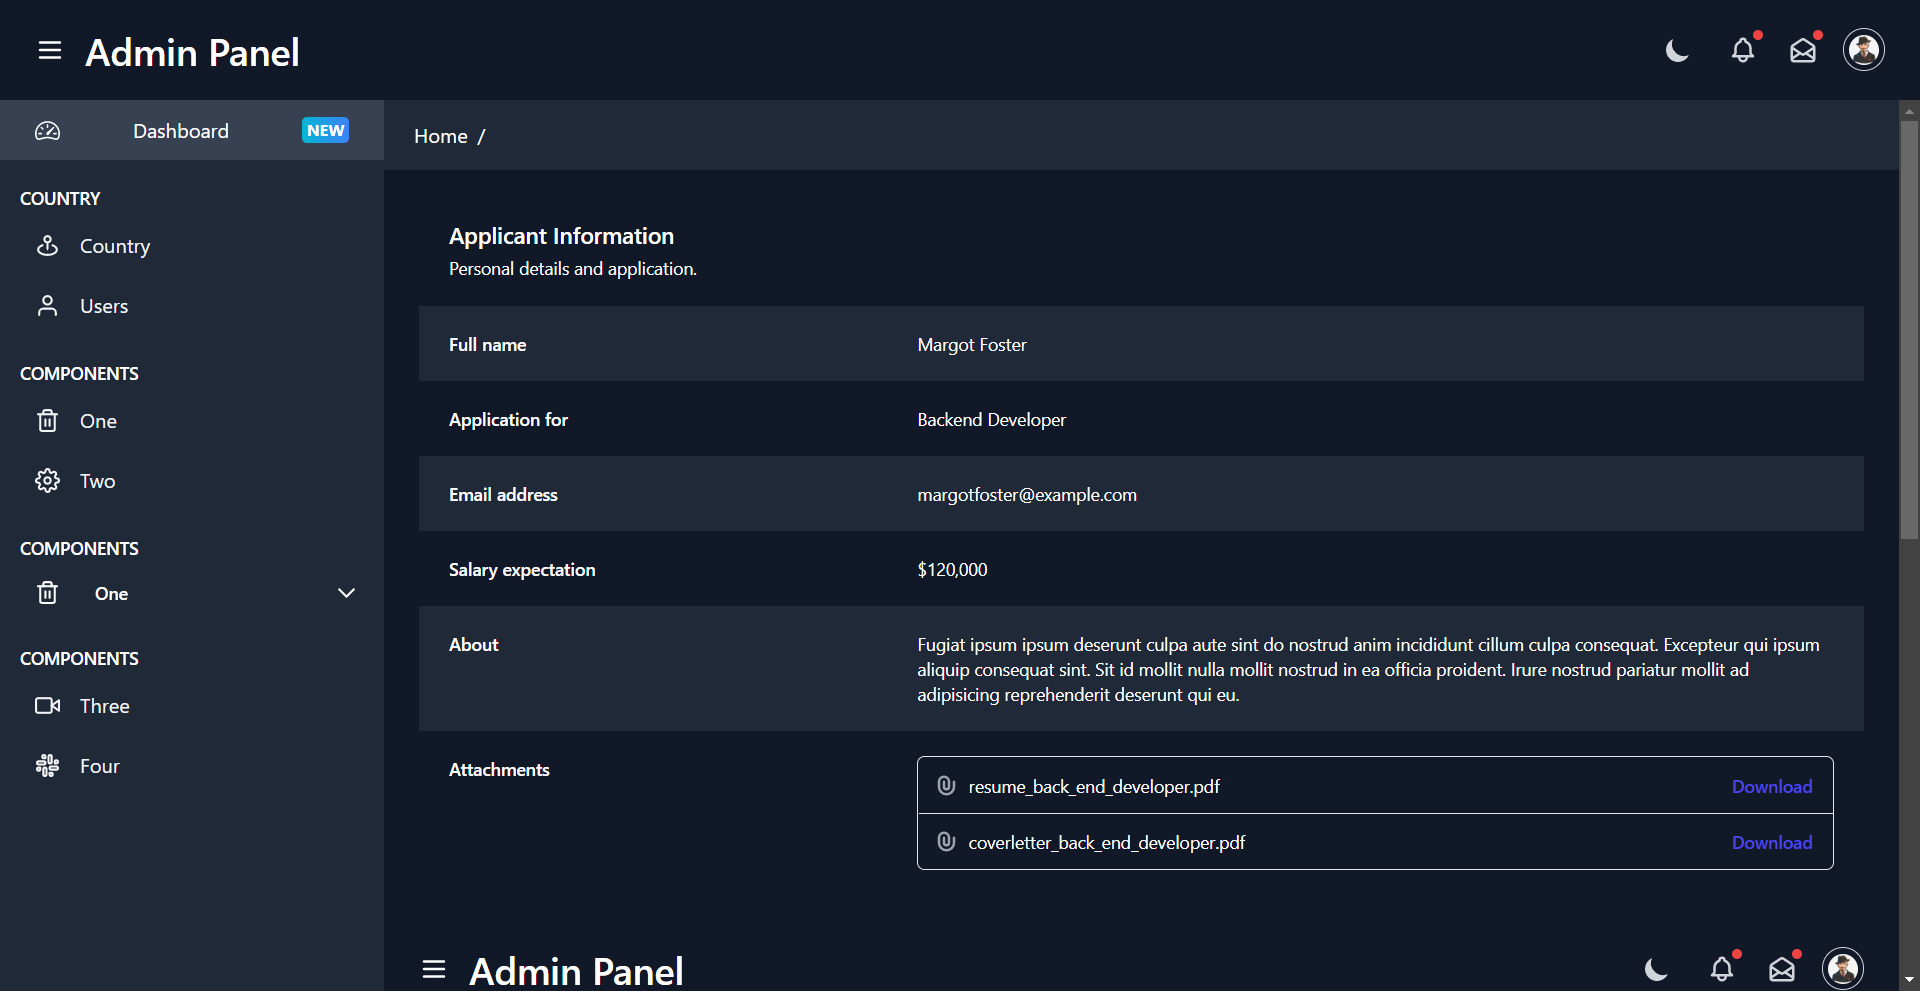
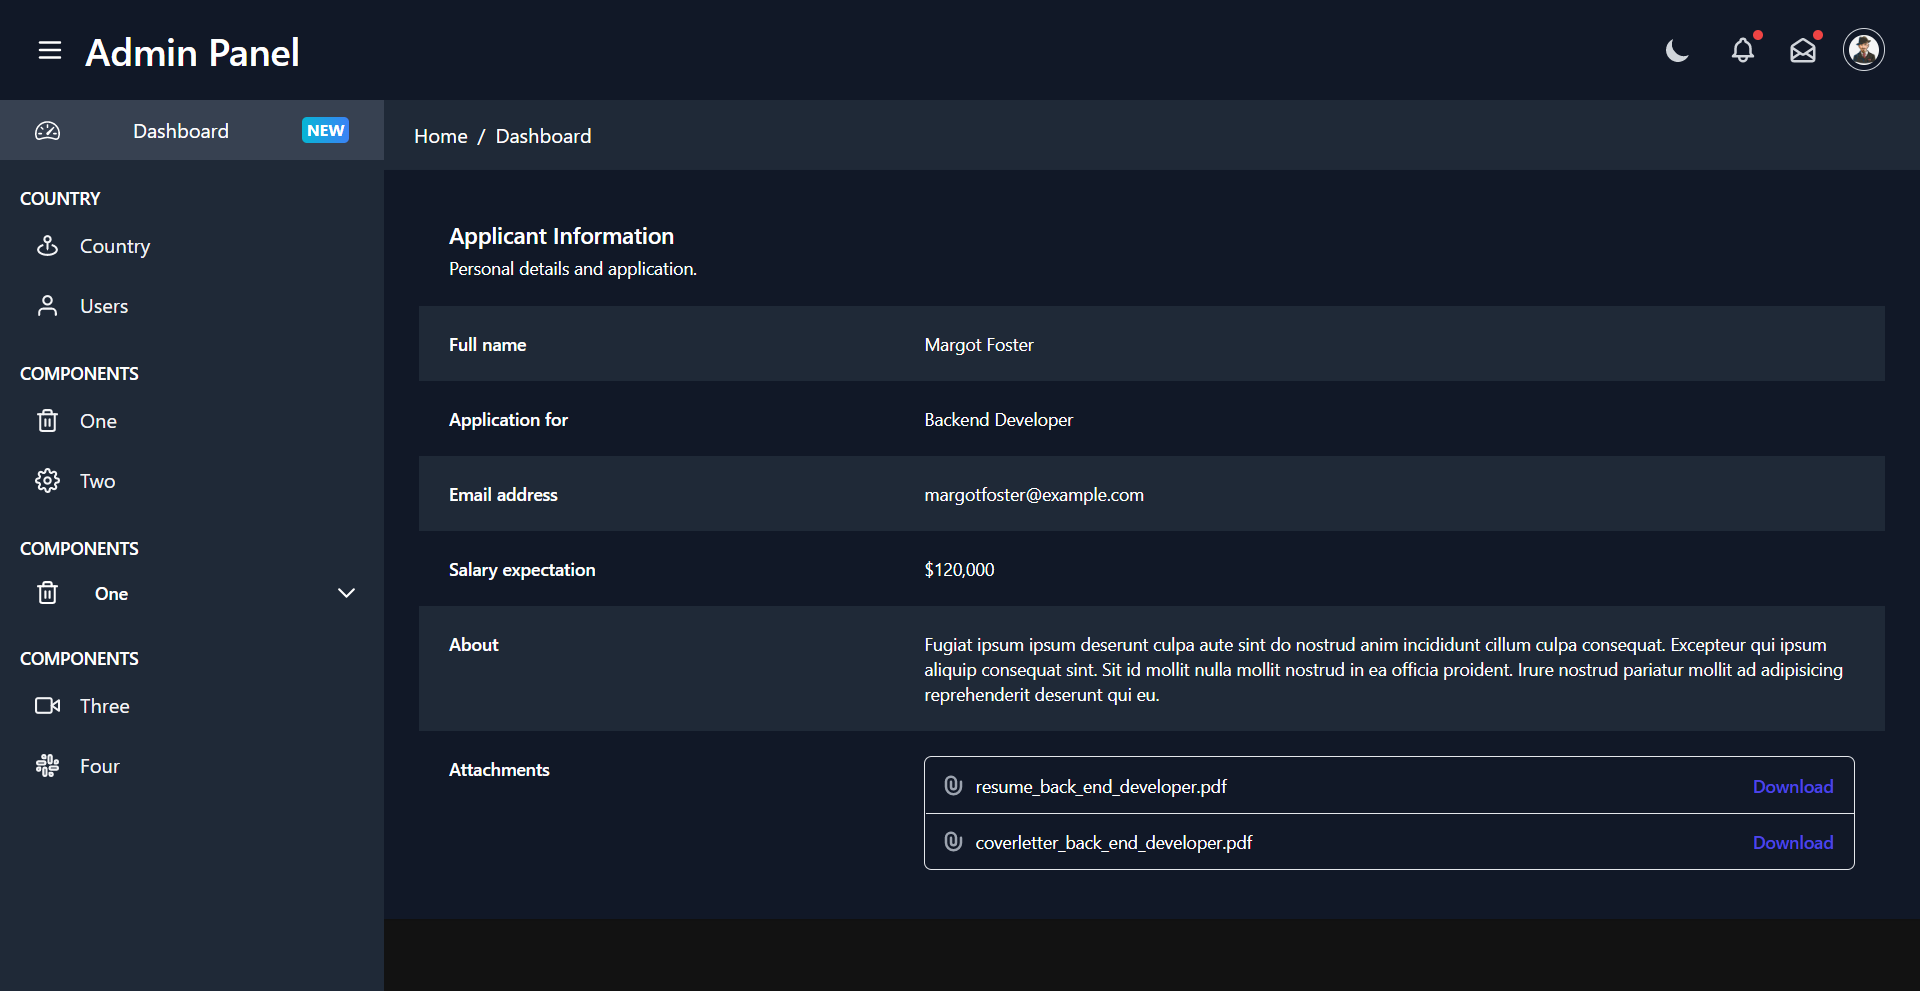
some bug change

diff --git a/src/route/Router.js b/src/route/Router.js
@@ -1,6 +1,7 @@
 import {
     Route, Routes
 } from "react-router-dom";
+import Demo from "../components/forms/Demo";
 import Demo2 from "../components/forms/Demo2";
 import DashboardLayout from "../layouts/DashboardLayout";
 import Dummy from "../pages/Dummy";
@@ -14,12 +15,13 @@ export default function Router() {
             <Routes>
                
                 <Route path="/" element={<Dummy />} >
-                <Route index element={<Dummy />} />
+                {/* <Route index element={<Dummy />} /> */}
                 </Route>
                 <Route path="/*" element={<DashboardLayout />} >
                     {/* <Route index element={<Home />} /> */}
                     <Route path="country" element={<Demo2 />} />
                     <Route path="one" element={<Home />} />
+                    <Route path="dashboard" element={<Demo />} />
                     <Route path="*" element={<NotFound/>} />
                 </Route>
                 <Route path="*" element={<NotFound/>} />
